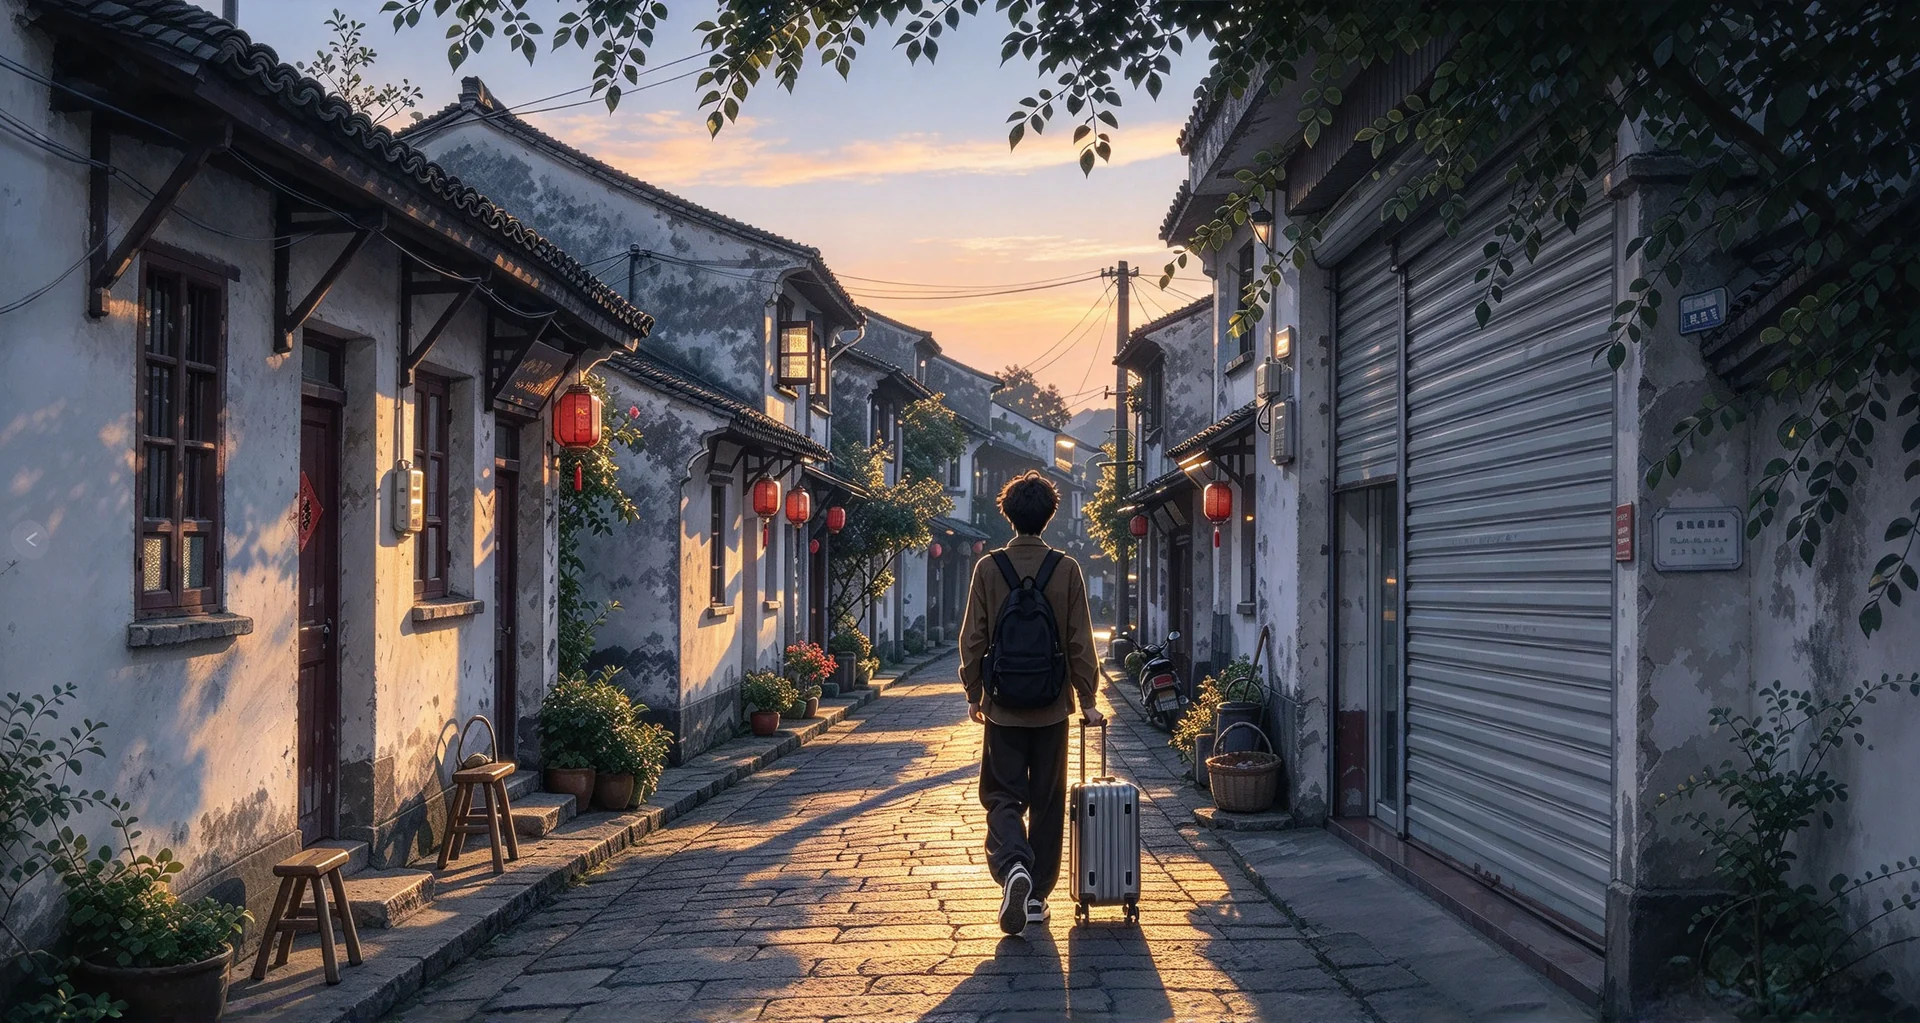
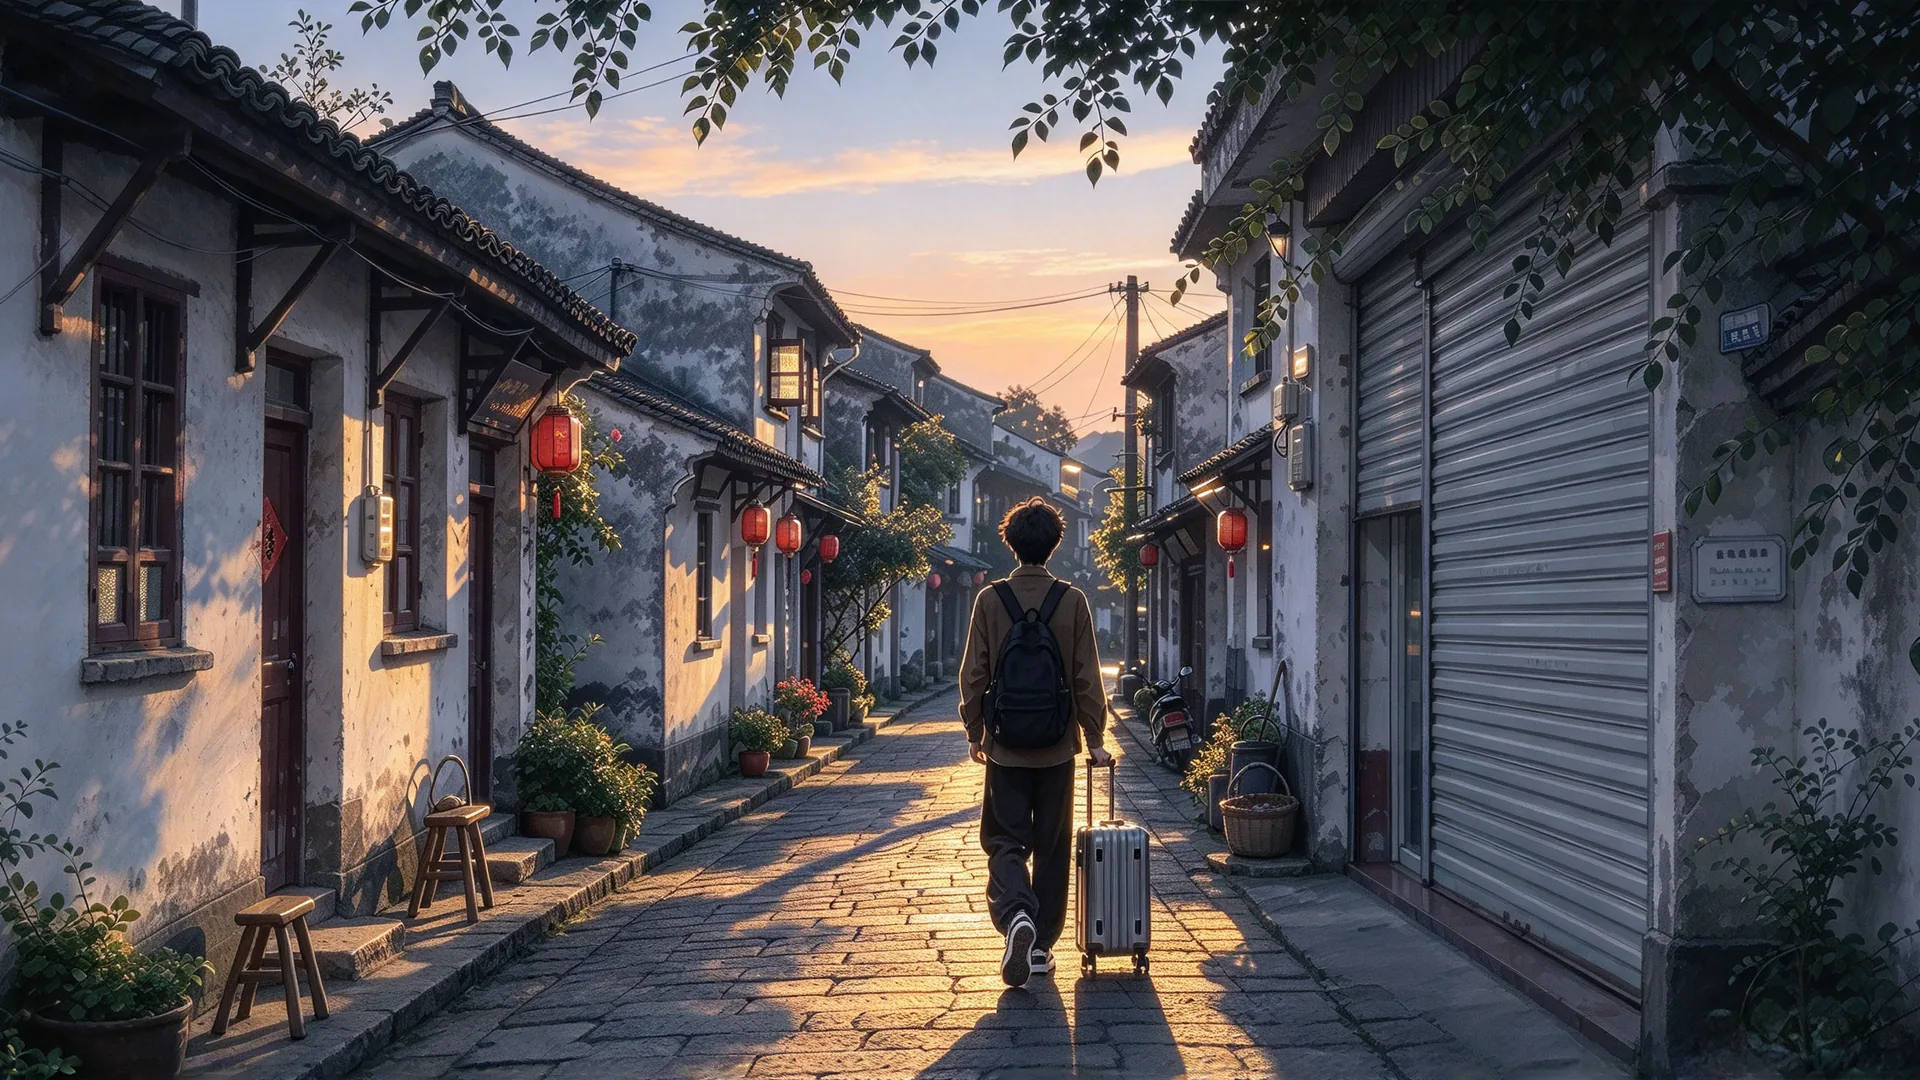
背景复查后修图：补 fish_parade 底图、拆第三章五连图、投影字合成、第一章规格归一
- 新增 bg_fish_parade.webp（源 序章/PRO-6_夜游鱼河.png，1920x1080/q86/378KB）：
  fish_parade 是 7 个缺 bg_* 的 scene 里唯一没有节点 backdrop 兜底的，
  EP 与结局页 B/C 一直落到渐变底
- 第三章 C3-5~C3-R 五连共用一图拆解：C3-7 -> ch3/C3-1、C3-R -> ch3/C3-3
- 新增 StoryNode.projection + ProjectionLayer.vue（底图之上、立绘之下）：
  C3-8 四行字按台词锚点逐行亮起；C2-B3 屏幕右上角「渲染精度 99.2%」
- 第一章三张底图重出 16:9，新增 scripts/make-backdrops.py（cover 裁切 + <=400KB）
- 文档：开发文档 v1.16.2、素材落位规范 §3.2、背景复查报告 §七

diff --git a/src/components/ProjectionLayer.vue b/src/components/ProjectionLayer.vue
@@ -1,0 +1,148 @@
+<script setup lang="ts">
+/**
+ * 底图上的「投影字」叠加层（2026-10-22）
+ *
+ * 用途：AI 生图写不出稳定文字，而剧本里又有必须"看见"的字——C3-8 的四行字
+ * （全剧题眼）就是典型：剧本写「四行字依次亮起，像点灯——投影在竹架上」，
+ * 但 `ch3/C3-5-8.webp` 里只有一条蓝色鱼骨全息，一个字都没有。
+ * 与其等美术重画（AI 也画不好），不如让这四行字由页面合成：底图不动，
+ * 字按剧情逐行"点亮"。
+ *
+ * 亮起时机由 `StoryScreen` 算好传入（`lit` = 已亮的行数）——
+ * 锚在台词上（读到哪句亮哪行），而不是进节点就一次全亮，
+ * 这样玩家读一句、墙上亮一行，四行字读完全是亮的。
+ *
+ * 视觉：暖金 #F4C97A + 强暗边阴影，字后一层柔光板（径向渐变，边缘归零），
+ * 不压暗整幅画面（2026-10-22 用户对"给画面加蒙版"明确否决过）。
+ */
+defineProps<{
+  /** 依次亮起的投影文字（每项一行） */
+  lines: string[]
+  /** 已亮的行数（0 = 全暗；lines.length = 全亮） */
+  lit: number
+  /**
+   * 版式：
+   * - `center`（默认）＝画幅上方居中的"投影/灯谱"（C3-8 四行字）；
+   * - `screen-tr` ＝屏幕右上角的小字读数（C2-B3「渲染精度 99.2%」），
+   *   等宽小字、低对比，读起来像界面标注而不是字幕。
+   */
+  pos?: 'center' | 'screen-tr'
+}>()
+</script>
+
+<template>
+  <div class="projection" :class="pos === 'screen-tr' ? 'screen-tr' : 'center'" aria-hidden="true">
+    <p v-for="(t, i) in lines" :key="i" class="pl" :class="{ on: i < lit }">
+      {{ t }}
+    </p>
+  </div>
+</template>
+
+<style scoped>
+.projection {
+  position: absolute;
+  display: flex;
+  flex-direction: column;
+  pointer-events: none;
+}
+
+.projection.center {
+  /* 画幅上方中部：避开对白带（底 19%）与两张脸（中段） */
+  left: 50%;
+  top: 6.5%;
+  transform: translateX(-50%);
+  width: min(66vw, 1000px);
+  align-items: center;
+  gap: 0.55em;
+  text-align: center;
+}
+
+/* 柔光板：字压得住画面，又看不出是一块底 */
+.projection.center::before {
+  content: '';
+  position: absolute;
+  inset: -22% -14%;
+  background: radial-gradient(
+    ellipse at 50% 50%,
+    rgba(6, 10, 20, 0.7) 0%,
+    rgba(6, 10, 20, 0.4) 46%,
+    rgba(6, 10, 20, 0) 76%
+  );
+  z-index: -1;
+  pointer-events: none;
+}
+
+/* 屏幕右上角的界面读数：贴在大屏蓝底的空处 */
+.projection.screen-tr {
+  right: 14.5%;
+  top: 7%;
+  align-items: flex-end;
+  gap: 0.3em;
+  text-align: right;
+}
+.projection.screen-tr::before {
+  content: '';
+  position: absolute;
+  inset: -60% -30%;
+  background: radial-gradient(
+    ellipse at 70% 50%,
+    rgba(4, 14, 34, 0.55) 0%,
+    rgba(4, 14, 34, 0) 72%
+  );
+  z-index: -1;
+  pointer-events: none;
+}
+
+.pl {
+  margin: 0;
+  font-size: clamp(18px, 1.9vw, 30px);
+  line-height: 1.45;
+  letter-spacing: 0.18em;
+  color: #f4c97a;
+  /* 未点亮：暗、虚、略低一点——像还没通光的字 */
+  opacity: 0;
+  transform: translateY(6px);
+  filter: blur(7px);
+  text-shadow:
+    0 0 2px rgba(16, 10, 4, 0.9),
+    0 2px 10px rgba(0, 0, 0, 0.85);
+  transition:
+    opacity 0.85s ease,
+    filter 0.85s ease,
+    transform 0.85s ease;
+}
+
+/* 界面读数版：等宽、小、偏冷，像屏幕自己画的 */
+.screen-tr .pl {
+  font-family: ui-monospace, 'Cascadia Mono', Consolas, monospace;
+  font-size: clamp(12px, 1.02vw, 17px);
+  letter-spacing: 0.06em;
+  color: rgba(214, 236, 255, 0.92);
+  text-shadow: 0 1px 3px rgba(0, 8, 20, 0.9);
+}
+
+/* 点亮：再补一层暖光晕 + 一次"通光"的微闪 */
+.pl.on {
+  opacity: 1;
+  transform: none;
+  filter: blur(0);
+  text-shadow:
+    0 0 2px rgba(16, 10, 4, 0.9),
+    0 0 18px rgba(255, 168, 72, 0.5),
+    0 2px 10px rgba(0, 0, 0, 0.85);
+  animation: pl-light 1.5s ease-out;
+}
+
+@keyframes pl-light {
+  0% {
+    opacity: 0.25;
+    text-shadow:
+      0 0 2px rgba(16, 10, 4, 0.9),
+      0 0 34px rgba(255, 168, 72, 0.85),
+      0 2px 10px rgba(0, 0, 0, 0.85);
+  }
+  100% {
+    opacity: 1;
+  }
+}
+</style>

diff --git a/src/data/story/c3.ts b/src/data/story/c3.ts
@@ -20,9 +20,13 @@
  *  - **艺术给的图少于镜头**，按「同一张顶多个节点」处理，不重复存文件：
  *      `C3-A1.webp` 同时用于 C3-A1／C3-B1／C3-C1（三版"灯未点"起手式，原图三份字节完全相同）；
  *      `C3-B2/B3/B4.webp` 同时用于 C3-C2／C3-C3／C3-C4（链 B 与链 C 共用，原图同样字节相同）。
- *      `C3-5-8.webp` 一张覆盖 C3-5～C3-8 ＋ C3-R（阿鲟投影悬在桌上，四人仰望）。
+ *      `C3-5-8.webp` 覆盖 C3-5／C3-6／C3-8（阿鲟投影悬在桌上，四人仰望）。
+ *  - **2026-10-22 背景复查后的三处调整**（原先 C3-5～C3-8＋C3-R 五连共用一张图）：
+ *      C3-7 → `C3-1.webp`（「把方案往回收了收」，方案书回到焦点）；
+ *      C3-8 加 `projection`（四行字由 `ProjectionLayer.vue` 合成，读到哪句亮哪行）；
+ *      C3-R → `C3-3.webp`（人散、灯未点、投影已熄）。
  *  - **底图把九婆／阿禾／知遥／周经理都画进去了**，全部节点配 `backdropCast`（否则同一人出现两次）；
- *    本章因此是「整幅 CG 讲故事」，立绘只在阿鲟（C3-A/B/C、C3-R）出现。
+ *    本章因此是「整幅 CG 讲故事」，立绘一律不上（阿鲟由名条与 C3-5-8 里的蓝色结构投影承担）。
  */
 import type { StoryNode } from '@/types/story'
 import { nar, quote, say, stage } from './format'
@@ -230,7 +234,9 @@ export const c3Nodes: StoryNode[] = [
     chapter: CHAPTER,
     sectionTitle: 'C3-7｜周经理的转弯（矛盾不脸谱化）',
     scene: 'banyan_night',
-    backdrop: 'ch3/C3-5-8.webp',
+    // 2026-10-22 复查改图：原与 C3-5 共用 C3-5-8（蓝色鱼骨全息）。本节点是「他把方案往回收了收」，
+    // C3-1 正是方案书推在桌上、周经理站在右侧那一帧——焦点回到方案书，也不与前后节点重图。
+    backdrop: 'ch3/C3-1.webp',
     backdropCast: FOUR,
     lines: [
       stage('【C3-7】周经理的转弯（矛盾不脸谱化）'),
@@ -252,6 +258,15 @@ export const c3Nodes: StoryNode[] = [
     scene: 'banyan_night',
     backdrop: 'ch3/C3-5-8.webp',
     backdropCast: FOUR,
+    /**
+     * 四行字投影（2026-10-22）：底图里没有字也没有竹架，这四行是全剧题眼，
+     * 由 `ProjectionLayer.vue` 合成——读到哪一句，墙上亮哪一行。
+     * 锚点取每行开头几个字（做 startsWith 匹配，见 `StoryNode.projection`）。
+     */
+    projection: {
+      lines: ['一、先定骨，再动鳞。', '二、把灯放对地方。', '三、递手。', '四、慢。'],
+      anchors: ['一、先定骨', '二、把灯放对地方', '三、递手', '四、慢'],
+    },
     lines: [
       stage('【C3-8】共识框架（全剧题眼，阿鲟投在纸上）'),
       stage('画面：四行字依次亮起，像点灯——投影在竹架上，逐行 1200ms、依次 +400ms。'),
@@ -515,7 +530,10 @@ export const c3Nodes: StoryNode[] = [
     chapter: CHAPTER,
     sectionTitle: 'C3-R｜倾向报告',
     scene: 'banyan_night',
-    backdrop: 'ch3/C3-5-8.webp',
+    // 2026-10-22 复查改图：原与 C3-5～C3-8 共用一张「蓝色鱼骨全息还亮着」的图，
+    // 但本节点是「人陆续散了、竹架上那盏灯始终没点」。改挂 C3-3（篾递到一半、桌上无灯、
+    // 投影已熄），与前一段形成对比。
+    backdrop: 'ch3/C3-3.webp',
     backdropCast: FOUR,
     kind: 'report',
     lines: [

diff --git a/src/components/StoryScreen.vue b/src/components/StoryScreen.vue
@@ -19,6 +19,7 @@ import DialogueBox from './DialogueBox.vue'
 import FreeInput from './FreeInput.vue'
 import HistoryPanel from './HistoryPanel.vue'
 import ItemShowcase from './ItemShowcase.vue'
+import ProjectionLayer from './ProjectionLayer.vue'
 import SceneBackdrop from './SceneBackdrop.vue'
 import SceneCard from './SceneCard.vue'
 import SettingsPanel from './SettingsPanel.vue'
@@ -45,6 +46,26 @@ const displayLine = computed<Line | null>(() => {
   if (phase.value === 'lines') return e.currentLine.value
   const list = e.lines.value
   return list[list.length - 1] ?? null
+})
+/**
+ * 投影字叠加层（2026-10-22）：已亮行数按"读到第几句"算——
+ * `anchors` 填台词开头几个字，读到那句就点亮对应那行（见 `ProjectionLayer.vue`）。
+ * 用锚点而不用行号：审核模式下 stage 行会插进来改变下标。
+ */
+const projection = computed(() => e.node.value?.projection ?? null)
+const projectionLit = computed(() => {
+  const p = projection.value
+  if (!p) return 0
+  if (!p.anchors?.length) return p.lines.length
+  const list = e.lines.value
+  const idx = e.lineIndex.value
+  let lit = 0
+  for (const a of p.anchors) {
+    const at = list.findIndex((l) => l.text.startsWith(a))
+    // 锚点找不到（台词改写／整行被过滤）按"已亮"处理：宁可早亮，也不要永远不亮
+    if (at < 0 || at <= idx) lit += 1
+  }
+  return lit
 })
 /**
  * 输入界面配置：普通自由输入 或 判定触点（stance）——统一适配成 FreeInput 所需形状。
@@ -403,6 +424,15 @@ onUnmounted(() => {
       :scheme="schemeScene"
       :blur="showChoices"
       :backdrop="e.node.value?.backdrop"
+    />
+
+    <!-- 投影字（C3-8 四行字）：底图之上、立绘之下。
+         只在节点声明了 `projection` 时出现，其余镜头零成本 -->
+    <ProjectionLayer
+      v-if="projection"
+      :lines="projection.lines"
+      :lit="projectionLit"
+      :pos="projection.pos"
     />
 
     <!-- 人物立绘：**常驻在场**（2026-10-19 按 galgame 惯例重做）——

diff --git a/src/types/story.ts b/src/types/story.ts
@@ -355,6 +355,26 @@ export interface StoryNode {
    */
   holdMs?: number
   /**
+   * 底图上的「投影字」叠加层（2026-10-22 新增；`ProjectionLayer.vue` 渲染）。
+   *
+   * 给"剧本要求看得见字、但 AI 生图画不出稳定文字"的镜头用代码合成：
+   * 目前只有 C3-8（全剧题眼·四行字投影在竹架上）在用。
+   *
+   * - `lines`：依次亮起的文字，一项一行。
+   * - `anchors`：与 `lines` 一一对应，填**那句台词的开头几个字**（做 `startsWith` 匹配）。
+   *   引擎按"当前读到第几句"算出已亮的行数，玩家读一句、墙上亮一行；
+   *   不填则进节点即全亮。
+   * - 用锚点而不是行号：`settings.showStageNotes` 会改变可见行下标（审核模式多出 stage 行），
+   *   行号会错位，锚点不会。
+   * - `pos`：`center`（默认，画幅上方"投影/灯谱"）｜`screen-tr`（屏幕右上角界面读数小字，
+   *   如 C2-B3 的「渲染精度 99.2%」）。
+   */
+  projection?: {
+    lines: string[]
+    anchors?: string[]
+    pos?: 'center' | 'screen-tr'
+  }
+  /**
    * 按结局分派下一节点（settle 节点用）：
    * `{ A: 'A1', B: 'B1', C: 'E1' }`——未命中的分支回落 `nextNodeId`。
    */

diff --git a/src/data/story/ep.ts b/src/data/story/ep.ts
@@ -22,6 +22,14 @@ export const epNodes: StoryNode[] = [
     id: 'EP',
     chapter: CHAPTER,
     sectionTitle: 'EP｜游鱼夜（三分派通用）',
+    /**
+     * `fish_parade` 原先**没有** `bg_*.webp`，而本节点又没有节点级 `backdrop`，
+     * 实机落到一片渐变底（2026-10-22 复查发现，截图存证 `.verify-shot/audit/EP.png`）。
+     * 已补 `bg_fish_parade.webp`（源 `photo/序章/PRO-6_夜游鱼河.png`，16:9），
+     * 顺带修好结局页 B／C（`EndingScreen` 也走这个 scene）。
+     * 剧本要的是「俯拍全景」，PRO-6 是地面视角——先用同题材的美术兜住，
+     * 若美术后续出俯拍图，同名替换即可，代码零改动。
+     */
     scene: 'fish_parade',
     lines: [
       stage('【EP】游鱼夜（三分派通用）'),

diff --git a/src/data/story/c2.ts b/src/data/story/c2.ts
@@ -149,6 +149,12 @@ export const c2Nodes: StoryNode[] = [
     scene: 'studio_night',
     backdrop: 'ch2/C2-B3.webp',
     backdropCast: ['知遥'],
+    /**
+     * 屏幕角落那行小字：AI 生图画不出稳定文字（原图角落是空的），
+     * 由 `ProjectionLayer` 合成成"界面读数"（`pos: 'screen-tr'`）。
+     * 不动底图，也不改台词——旁白照旧把那句话念完。
+     */
+    projection: { lines: ['渲染精度 99.2%'], pos: 'screen-tr' },
     lines: [
       stage('画面：手指松开，金线鱼一点点聚回来；镜头压到屏幕角落那行小字。'),
       stage('（屏幕上的鱼一点点聚回来）'),

diff --git a/scripts/make-backdrops.py b/scripts/make-backdrops.py
@@ -1,0 +1,57 @@
+"""
+批量出「场景底图」webp（16:9 / 1920×1080 / ≤400KB）
+
+用途（2026-10-22 背景图复查后的补图）：
+  1. bg_fish_parade.webp —— 尾声 EP 与结局页 B/C 一直缺这张，实机落到渐变底。
+     源用 `photo/序章/PRO-6_夜游鱼河.png`（2048×1152，正好 16:9，已通过的美术）。
+  2. 第一章三张底图重出为统一 16:9 —— 原先分别 1920×1023 / 1932×1185 / 1920×1079。
+
+策略：cover 裁切（居中）→ LANCZOS 缩到 1920×1080 → webp，质量从 QUALITY 起降档，
+直到体积 ≤ MAX_KB。
+"""
+
+import os
+from PIL import Image
+
+# —— 配置：源图 → 输出 ——
+SRC_ROOT = r'D:\Agent Project\race\photo'
+OUT_ROOT = r'D:\Agent Project\race\app\public\assets\scenes'
+
+JOBS = [
+    # (源文件相对 SRC_ROOT 的路径, 输出相对 OUT_ROOT 的路径)
+    (r'序章\PRO-6_夜游鱼河.png', 'bg_fish_parade.webp'),
+    (r'第一章\C1-2(1).jpg', 'bg_laoxu_street.webp'),
+    (r'第一章\C1-4a.jpg', 'bg_museum_case.webp'),
+    (r'第一章\C1-4b.jpg', 'bg_gift_shop.webp'),
+]
+
+W, H = 1920, 1080
+QUALITY = 86          # 起始质量
+QUALITY_MIN = 70      # 体积压不下来时的下限
+MAX_KB = 400
+METHOD = 6
+
+for rel_src, rel_out in JOBS:
+    src = os.path.join(SRC_ROOT, rel_src)
+    out = os.path.join(OUT_ROOT, rel_out)
+
+    im = Image.open(src).convert('RGB')
+    sw, sh = im.size
+    # cover：先把源图裁成 16:9（居中），再缩放
+    if sw / sh > W / H:
+        cw = round(sh * W / H)
+        box = ((sw - cw) // 2, 0, (sw + cw) // 2, sh)
+    else:
+        ch = round(sw * H / W)
+        box = (0, (sh - ch) // 2, sw, (sh + ch) // 2)
+    im = im.crop(box).resize((W, H), Image.LANCZOS)
+
+    q = QUALITY
+    while True:
+        im.save(out, 'WEBP', quality=q, method=METHOD)
+        kb = os.path.getsize(out) / 1024
+        if kb <= MAX_KB or q <= QUALITY_MIN:
+            break
+        q -= 4
+
+    print(f'{rel_out:24s} {sw}x{sh} → {W}x{H}  q={q}  {kb:.0f}KB')
